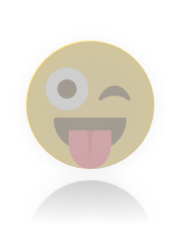
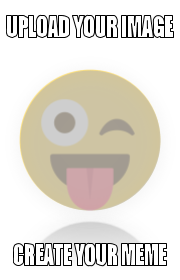
Enabled meme preview

Changed region(s): [[0.0278, 0.0292, 0.9722, 0.9625]]

diff --git a/memepool/app.js b/memepool/app.js
@@ -2,7 +2,7 @@ document.addEventListener("DOMContentLoaded", () => {
     const documentEl = $$(document);
     const previewCanvas = document.getElementById("canvas");
     const previewCtx = previewCanvas.getContext("2d");
-    const previewImg = document.getElementById("preview");
+    const previewImg = document.getElementById("default-meme");
     const file = document.querySelector(".content form .blanks .file").files[0];
     const bgBars = $$(".bg-bars").children();
     $$(function() {
@@ -150,9 +150,12 @@ class UploadForm extends Komponent {
         this.upperTextInput = $$(".content form .blanks upper-text");
         this.lowerTextInput = $$(".content form .blanks lower-text");
         this.tagsInput = $$(".content form .blanks tags");
+        this.fileInput = $$(".content form .blanks input");
         this.preview = $$(".content form .preview");
-        this.fileInput = $$(".content form .preview input");
-        this.submitButton = $$(".content form .preview button");
+        this.canvas = $$(".content form .preview canvas");
+        this.defaultMeme = $$(".content form .preview img");
+        this.previewButton = $$(".content form .preview .buttons-container .step.i button");
+        this.submitButton = $$(".content form .preview .buttons-container .step.iI button");
         this.previewCanvas = options.previewCanvas;
         this.previewCtx = options.previewCtx;
         // this.previewImg = options.previewImg;
@@ -165,25 +168,32 @@ class UploadForm extends Komponent {
     }
     
     toggleContent() {
+        if (this.file) {
+            this.canvas.removeClass("none");
+            this.defaultMeme.addClass("none");
+        } else {
+            this.canvas.addClass("none");
+            this.defaultMeme.removeClass("none");
+        }
         this.toggleChildren(this.form, "hidden", 0);
+        this.ready();
         // if (!this.reader) this.reader = new FileReader();
         // this.reader.onload = () => {
-        debugger
-        if (!this.img) {
-            this.img = new Image(360, 480);
+        // if (!this.img) {
+            // this.img = new Image(360, 480);
             // this.img.onload = function() {
-            //     this.previewCtx.drawImage(this.img, 0, 0, 180, 240);
+            //     this.previewCtx.drawImage(this.img, 0, 0, 180, 280);
             // }
-        }
-        this.img.src = this.file ? this.file : "./assets/images/default_meme.png";
-        debugger
-        this.drawPreview();
+        // }
+        // this.img.src = this.file ? this.file : "./assets/images/default_meme.png";
+        // debugger
+        // this.drawPreview();
         // };
         // reader.readAsText(this.file);
     }
 
     handleUpload(e) {
-        this.previewCtx.clearRect(0, 0, 180, 240);
+        this.previewCtx.clearRect(0, 0, 180, 280);
         this.file = e.currentTarget.files[0];
         const reader = new FileReader();
         debugger
@@ -212,9 +222,9 @@ class UploadForm extends Komponent {
         // debugger        
         // this.previewImg = new Image(360, 480);
         this.previewCanvas.width = 180;
-        this.previewCanvas.height = 240;
-        // this.previewCtx.clearRect(0, 0, 180, 240);
-        this.previewCtx.drawImage(this.img, 0, 0, 180, 240);
+        this.previewCanvas.height = 280;
+        this.previewCtx.clearRect(0, 0, 180, 280);
+        this.previewCtx.drawImage(this.img, 0, 0, 180, 280);
         debugger
         // if (this.file) {
         //     debugger
@@ -226,7 +236,6 @@ class UploadForm extends Komponent {
         //     this.previewImg.src = "./assets/images/default_meme.png";
         //     debugger
         // }
-
     }
 
     ready() {
@@ -235,6 +244,21 @@ class UploadForm extends Komponent {
         this.lowerTextInput.on("change", (e) => this.lowerText = e.currentTarget.value());
         this.tagsInput.on("change", (e) => this.tags = e.currentTarget.value().split(" "));
         this.fileInput.on("change", (e) => this.handleUpload(e));
+        this.previewButton.on("click", (e) => {
+            e.preventDefault();
+            const reader = new FileReader();
+            reader.onload = () => {
+                this.img = new Image(180, 280);
+                this.img.src = reader.result;
+                this.canvas.removeClass("none");
+                this.defaultMeme.addClass("none");
+                this.drawPreview();
+            }
+            reader.readAsDataURL(this.file);
+        })
+        if (this.file) this.submitButton.on("click", () => {
+            console.log("Submitted!");
+        })
         debugger
         // this.drawPreview();
     }

diff --git a/assets/stylesheets/app.css b/assets/stylesheets/app.css
@@ -207,7 +207,7 @@ header {
 .content form {
     display: flex;
     background-color: rgba(164, 132, 255, 0.6);
-    width: 500px;
+    width: 510px;
     /* height: 340px; */
     transition: all 0.4s ease;
 }
@@ -264,7 +264,7 @@ header {
 
 .content form .preview {
     width: 100%;
-    margin: 0 15px;
+    margin: 10px 15px;
     transition: all 0.4s ease;
 }
 
@@ -272,15 +272,19 @@ header {
     transition: all 0.1s ease;
 }
 
-.content form .preview #canvas{
-    /* width: 180px; */
-    /* height: 240px; */
+.content form .preview #canvas {
     display: block;
-    margin: 15px auto;
-    /* margin-top: 15px; */
-    /* background-color: #f2f2f2; */
+    margin: 0 auto;
 }
 
+.content form .preview img {
+    display: block;
+    margin: 0px auto;
+}
+
+.none {
+    display: none!important;
+}
 /* .content form .preview input {
     display: block;
     margin: 0px 0px 0px 60px;
@@ -290,8 +294,8 @@ header {
 .content form .preview .buttons-container {
     display: flex;
     justify-content: space-between;
-    width: 160px;
-    margin: 0 auto;
+    /* width: 160px; */
+    margin: 10px 5px;
 }
 
 .content form .preview .buttons-container .step {

diff --git a/index.html b/index.html
@@ -64,7 +64,8 @@
                     <input type="file" accept="image/*" class="file" />
                 </div>
                 <div class="preview hidden">
-                    <canvas id="canvas"></canvas>
+                    <canvas id="canvas" class="none"></canvas>
+                    <img src="./assets/images/default_meme.png" id="default-meme" >
                     <div class="buttons-container">
                         <div class="step i">
                             <div class="step-name one"><span>1</span><p>Preview</p></div>
